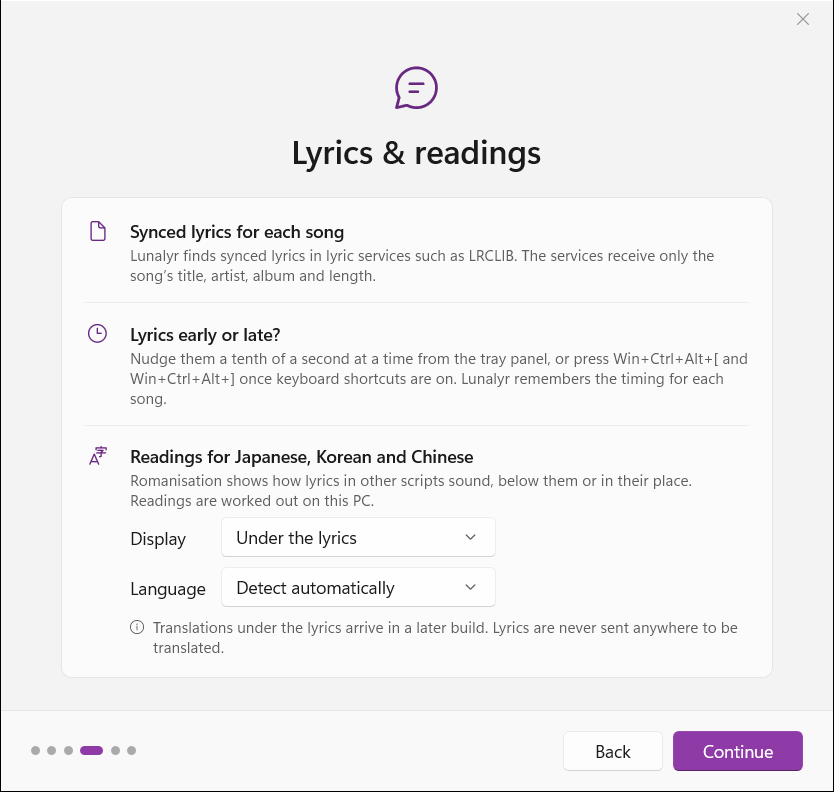
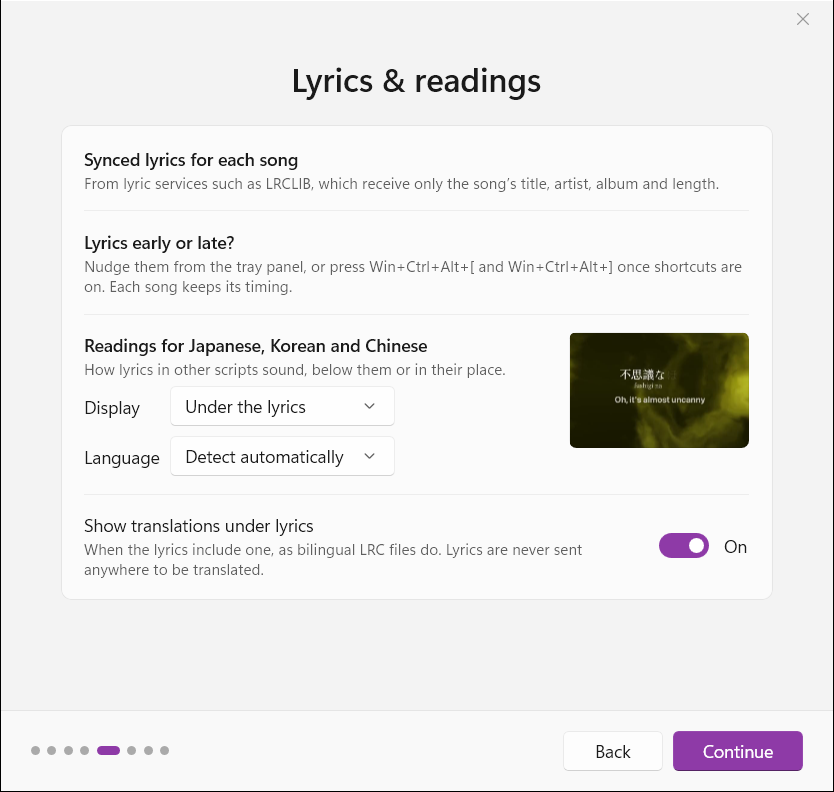
Docs and previews: the eight-step welcome, its media and the Settings loader
APP-SHELL.md: the reworked welcome (media, playback without a media session, the opening, the eight steps, the look
step's halves and layout tiles, the videos and extras steps, the capture pages), the Settings loader, and the
--onboarding-step pages and --settings-loader-capture rows; OnboardingHero.mp4's real album cover is marked for
re-recording before any release. PROVENANCE.md: what was blame-checked and how each part went. VALIDATION.md: rows
appended. Previews: every page in light and dark, the opening and the loader, all quiet captures. Captures now log
the video's state and position, and the opening is caught about 1.2 s in, with the glass formed.

diff --git a/windows/src/Lunalyr.App/Onboarding/OnboardingWindow.cs b/windows/src/Lunalyr.App/Onboarding/OnboardingWindow.cs
@@ -346,9 +346,9 @@ internal sealed partial class OnboardingWindow : Window
         {
             var waited = DateTime.UtcNow - started;
             // The look step's preview needs the wallpaper's controller and a few frames; the others only a layout pass.
-            // The opening is caught with the glass formed, a little over a second into its video (it ends on the plain logo).
+            // The opening is caught with the glass formed, under a second into its 3.25 s video (it ends on the plain logo).
             var ready = _introOverlay is not null
-                ? waited > TimeSpan.FromSeconds(1.7)
+                ? waited > TimeSpan.FromSeconds(1.2)
                 : _flow.Step == OnboardingStep.Look
                 ? (_host.Controller is not null && waited > TimeSpan.FromSeconds(4)) || waited > TimeSpan.FromSeconds(12)
                 : (_host.Controller is not null && waited > TimeSpan.FromSeconds(2)) || waited > TimeSpan.FromSeconds(10);
@@ -360,7 +360,7 @@ internal sealed partial class OnboardingWindow : Window
             {
                 var size = WindowCapture.WritePng(hwnd, path);
                 _host.Log.App.Info(size is { } s
-                    ? $"Welcome capture ({name}) written to {path} ({s.Width}×{s.Height}); foreground: {WindowCapture.IsForeground(hwnd)}."
+                    ? $"Welcome capture ({name}) written to {path} ({s.Width}×{s.Height}); foreground: {WindowCapture.IsForeground(hwnd)}{(_introVideo is { } video ? $"; the opening: {video.Describe()}" : "")}."
                     : $"Welcome capture ({name}) couldn't be drawn.");
             }
             catch (Exception ex) when (ex is IOException or UnauthorizedAccessException)

diff --git a/windows/src/Lunalyr.App/SettingsWindow.Loader.cs b/windows/src/Lunalyr.App/SettingsWindow.Loader.cs
@@ -139,7 +139,7 @@ public sealed partial class SettingsWindow
         {
             var size = WindowCapture.WritePng(hwnd, path);
             _host.Log.App.Info(size is { } s
-                ? $"Settings loader capture written to {path} ({s.Width}×{s.Height}); foreground: {WindowCapture.IsForeground(hwnd)}."
+                ? $"Settings loader capture written to {path} ({s.Width}×{s.Height}); foreground: {WindowCapture.IsForeground(hwnd)}; the logo: {_loaderVideo?.Describe()}."
                 : "Settings loader capture couldn't be drawn.");
         }
         catch (Exception ex) when (ex is IOException or UnauthorizedAccessException)

diff --git a/windows/src/Lunalyr.App/Onboarding/OnboardingMediaViews.cs b/windows/src/Lunalyr.App/Onboarding/OnboardingMediaViews.cs
@@ -66,6 +66,13 @@ internal sealed class MutedVideo : IDisposable
 
     public MediaPlayerElement Element { get; }
 
+    /// <summary>Where playback is, and its state (for the capture's log line).</summary>
+    public string Describe()
+    {
+        var session = _player.PlaybackSession;
+        return $"{session.PlaybackState} at {session.Position.TotalSeconds:0.00} s of {session.NaturalDuration.TotalSeconds:0.00} s";
+    }
+
     /// <summary>The video played to its end (off the UI thread; looping players never say so).</summary>
     public event Action? Ended;
 

diff --git a/windows/docs/APP-SHELL.md b/windows/docs/APP-SHELL.md
@@ -42,7 +42,8 @@ AOT, PerMonitorV2. The published folder is about 74 MB plus a 65 MB `Lunalyr.pdb
 | `--updated <version>` | The installer started this copy after an update: the action HUD says "Updated to Lunalyr <version>" once. |
 | `--hud-capture <file>` | Each action HUD note's bitmap is also written as a PNG (`file`, then `file-2`, `file-3`…), with the window's styles, display affinity and whether it is the foreground window in the log. For checks: the window itself is left out of screen captures. |
 | `--onboarding-capture <file>` | Opens the first-run welcome (as a first run sees it) unactivated at the bottom of the z-order, at `--onboarding-step`; once it has settled (2 s after start-up, 4 s on the look step for the live preview), writes it as a PNG with PrintWindow, logs whether it was ever the foreground window, and quits. Records nothing (`onboardingDone` is left alone). See "Onboarding". Not forwarded to a running instance. |
-| `--onboarding-step <name>` | The step `--onboarding-capture` shows: `welcome`, `music`, `look`, `lyrics`, `tray`, `done` (or its title, or 1–6). Default `welcome`. |
+| `--onboarding-step <name>` | The page `--onboarding-capture` shows: `welcome`, `music`, `look`, `videos`, `lyrics`, `extras`, `tray`, `done` (or its title, or 1–8), `look-lyrics` (the look step's Lyrics half) or `opening` (the glass logo opening). Default `welcome`. |
+| `--settings-loader-capture <file>` | Opens Settings quietly with its loader (the glass logo while the first page builds, which quiet windows otherwise skip, also with animation effects off), writes the window with the logo up as a PNG (PrintWindow) about 0.6 s in, logs the video's position and whether it was ever the foreground window, and quits. Implies `--settings` and `--quiet-windows`. Not forwarded to a running instance. |
 
 ## Demo mode (`--demo`)
 
@@ -666,17 +667,41 @@ theme. The window opens at Lyric style (or `--settings-page`).
   are theme resources set through styles (`App.xaml`), so the App theme, light, dark and high contrast all apply per
   element. The window adds no animations of its own; with Windows' "Animation effects" off, the entrance menu says
   every entrance plays as a simple fade, as the wallpaper and the preview do.
+- **The loader** (the Mac's `SettingsLoader`, Test Build 88; `SettingsWindow.Loader.cs`, rules in `OnboardingMedia`'s
+  `SettingsLoader`): the first Settings window of a launch opens on `WelcomeGlass.mp4` (muted, at 2×, the square video
+  1.6 times the window's shorter side, centred and clipped, on black, the caption buttons drawn light), builds its first
+  page behind it once the logo has been drawn, then fades it out over 0.25 s (ease in) `SettingsLoader.Remaining`
+  after opening: 0.75 s at most, never a wait of its own making (measured on this PC: the first page built in about
+  0.5 s behind it). A click removes it at once. Skipped with Windows' animation effects off, without the video, after
+  the first opening of the launch and in quiet windows (`--quiet-windows` checks), unless `--settings-loader-capture`
+  asks for it.
 - **App theme** (General): follow Windows, light or dark, for Lunalyr's windows only (`Root.RequestedTheme` and the
   title bar's caption buttons). `--theme` overrides it for one run.
 
-## Onboarding (milestone 8)
+## Onboarding (milestone 8; eight steps since the Mac's Test Build 88)
 
-The Mac's first-run welcome (`Sources/UI/Onboarding/`), adapted. The flow and its words are in
+The Mac's first-run welcome (`Sources/UI/Onboarding/`), adapted; reworked on 14 Nov 2026 to the Mac's Test Build 88
+(eight steps, a glass logo opening, real recordings). The flow, its words and the rules for its moving pictures are in
 `src/Lunalyr.Shell/Onboarding/` (`OnboardingFlow`, `OnboardingCopy`, `OnboardingGate`, `OnboardingNavigation`,
-`OnboardingPlayers`; tested without a window, `tests/Lunalyr.Shell.Tests/Onboarding/WelcomeTests.cs`); the window is
-`src/Lunalyr.App/Onboarding/` (`OnboardingWindow`, its steps, `OnboardingArt`, `WindowCapture`), shown by
-`App.Onboarding.cs` and `Hosting/AppHost.Onboarding.cs`. Previews: `docs/previews/onboarding/`
-(`onboarding-{step}-{light,dark}.png`).
+`OnboardingPlayers`, `OnboardingMedia`; tested without a window, `tests/Lunalyr.Shell.Tests/Onboarding/WelcomeTests.cs`
+and `OnboardingReworkTests.cs`); the window is `src/Lunalyr.App/Onboarding/` (`OnboardingWindow`, its steps and
+opening, `OnboardingArt`, `OnboardingMediaViews`, `LayoutThumbnails`, `WindowCapture`), shown by `App.Onboarding.cs`
+and `Hosting/AppHost.Onboarding.cs`. Previews: `docs/previews/onboarding/` (`onboarding-{page}-{light,dark}.png`, page
+being a step, `look-lyrics` or `opening`; `settings-loader-{light,dark}.png`).
+
+**Media** (`src/Lunalyr.App/Assets/Onboarding/`, copied to the app's folder): the owner's recordings
+`OnboardingHero.mp4`, `OnboardingReadings.mp4`, `OnboardingFloating.mp4` (960 × 620, H.264, no audio track, 8 s at
+most) with their first frames as `.jpg` posters, `WelcomeGlass.mp4` (the glass logo, 1080 × 1080, 3.25 s, no audio
+track), `DiscordStatus.gif` (a recording of a Discord member list) and `LunalyrIcon.png` (the 256 px frame of
+`Assets\Lunalyr.ico`), all byte for byte the Mac's. **Before any release: `OnboardingHero.mp4` shows a real album
+cover (OneRepublic, "Native"); the owner said keep it for now and re-record it before shipping.**
+
+**Playback:** each video is a `MediaPlayer` shown by a `MediaPlayerElement` (`MutedVideo`), muted with its volume at 0
+before a source is set, with its command manager and transport controls off, so it never becomes a media session in
+Windows' media controls (checked: the GSMTC session list doesn't change while one plays). A player exists only while it
+may play and is disposed when it may not: the recordings loop only while their step is on screen in the active window,
+with Windows' animation effects on, outside quiet windows and captures (`OnboardingClips.Plays`); otherwise the
+poster shows. A recording fills its box around its focus (`OnboardingClips.Frame`: the readings one zoomed 1.6×).
 
 ### When it shows
 
@@ -684,7 +709,7 @@ The Mac's first-run welcome (`Sources/UI/Onboarding/`), adapted. The flow and it
   folder at launch, and nothing went wrong reading them (`OnboardingGate.IsFirstRun`). Someone upgrading from a test
   build has a `settings.json`, so they never see it unasked; a damaged or unreadable file counts as an existing user too.
 - **Never** with `--demo`, a capture flag (`--onboarding-capture`, `--floating-capture`, `--ticker-capture`,
-  `--hud-capture`), `--stats`, `--seconds`, `--settings`, `--settings-page` or `--lyric-card`: a check, or a launch that
+  `--hud-capture`, `--settings-loader-capture`), `--stats`, `--seconds`, `--settings`, `--settings-page` or `--lyric-card`: a check, or a launch that
   asked for another window. `--quiet-windows`, `--no-playback`, `--data` and links don't stop it; with
   `--quiet-windows` it opens unactivated at the bottom of the z-order like every other window. Nor does a launch-at-login
   start (`--login`): Windows started Lunalyr at sign-in, quietly.
@@ -707,31 +732,42 @@ anything had written `settings.json` meanwhile, so it is one rule instead. `onbo
 
 A fixed-size Mica window, 680 × 640 DIPs (the Mac's is 640 × 540 points), centred on the main display's work area,
 with a see-through title bar and only a close button; in the taskbar and Alt+Tab while it is up, titled "Welcome to
-Lunalyr". The step sits centred above a footer with the step dots, Back, and Continue (Done and Open Settings on the
-last step of a first run). Light, dark and high contrast come from theme resources in `App.xaml`'s styles; the App
+Lunalyr". A step's title sits at the same height on every step with its line under it and its content below (the
+welcome and the end are centred), above a footer with the step dots, Back, and Continue (Done and Open Settings on the
+last step of a first run). No symbols over the titles but the end's check mark, as on the Mac. Light, dark and high contrast come from theme resources in `App.xaml`'s styles; the App
 theme setting and `--theme` apply as in Settings.
 
+- **The opening:** the first time the welcome opens in a launch, on its first step, a black overlay covers the whole
+  window with `WelcomeGlass.mp4` playing muted in the middle, sized so the logo's glass tile is half the window's
+  height (`WelcomeGlass.VideoSide`); the footer is hidden and does nothing, and the close button is drawn light. When
+  the video ends its last frame holds 0.35 s, then the overlay cross-fades (0.6 s) into the welcome; a click, Enter or
+  Space skips it (the same fade), and it gives up after 8 s whatever the player says. Never under animation effects off
+  (`WelcomeGlass.OpensOnIntro`), in a quiet window, Back to the first step, or the welcome shown again in the same
+  launch.
 - **Keys:** Enter presses the primary button (Continue, Open Settings, Done) unless the focused control takes Enter
   itself (a focused button presses itself); Alt+Left is Back; Esc closes it early. On each step the primary button
   gets the keyboard focus, but only while the window is active, so a quiet window never takes it.
-- **Narrator:** each step's title is a level-1 heading; a new step is announced ("Step 2 of 6, Your music") with a UI
+- **Narrator:** each step's title is a level-1 heading; a new step is announced ("Step 2 of 8, Your music") with a UI
   Automation notification, as VoiceOver moves to the Mac's new title, and the title's help text is its position; the
-  dots' panel is named "Step 2 of 6" with the step's name as help text (whether a panel surfaces that to Narrator was
+  dots' panel is named "Step 2 of 8" with the step's name as help text (whether a panel surfaces that to Narrator was
   not checked); every control is named after its row, with its caption as help text; the pictures are skipped.
   A held Enter doesn't repeat through the steps: only a fresh press moves on.
-- **Animation effects:** steps slide in from the side they came from (an entrance transition) and the welcome's
-  sample lyric lights word by word twice, only while Windows' Animation effects are on (read each time, never changed);
-  otherwise a step just appears and the lyric holds mid-line, as it does in a quiet window and in captures.
+- **Animation effects:** steps slide in from the side they came from (an entrance transition), the opening plays, the
+  recordings and the Discord recording move and the chosen layout tile plays its line, only while Windows' Animation
+  effects are on (read each time, never changed); otherwise a step just appears and the pictures hold still, as they do
+  in a quiet window and in captures.
 
 ### The steps
 
 | Step | What it shows and does |
 |---|---|
-| Welcome | A drawn desktop in an album's colours with two sample lines lit word by word, "Welcome to Lunalyr" and the Mac's sentence. (The Mac's Calm/Bold settings look has no Windows counterpart and isn't offered.) |
-| Your music | Windows' counterpart of the Mac's permission step: Lunalyr follows any app that shares what it plays with Windows (the media controls by the volume flyout), **Windows asks nothing and Lunalyr needs no permission**, and it only reads the song and its position. "Sharing with Windows now" lists the players GSMTC has sessions for, each Playing/Paused, the one followed marked (`OnboardingPlayers`, read only, never a command). Follow is Settings › Music players' Player, the same setting (`player`, `PlayerChoiceCombo`): Automatic, Apple Music, Spotify, each player sharing now and the current choice; with one player chosen the others are listed as "Not followed: Lunalyr follows … only" and what they play isn't read. Continue asks nothing of anyone. |
-| Pick a look | The Mac's look step: the live preview (Settings' `SettingsPreview`, 320 wide, drawn only on this step and while the window is visible), every wallpaper type as a tile (`backgroundMode`; Settings' own tile grid, so Image or video with nothing imported opens the file picker and imports), the Layout menu (`lyricComposition`, Match the music first) and a line on what the type draws (or the import's progress or failure). The wallpaper follows at once. |
-| Lyrics & readings | Where lyrics come from (lyric services such as LRCLIB, sent only the song's title, artist, album and length; Windows has no Apple Music lyrics of its own), nudging the timing from the tray panel or with the two shortcuts (labelled as this keyboard types them, e.g. Win+Ctrl+Alt+[), readings Display and Language (`romanizationDisplay`, `romanizationLanguage`), and the Mac's "Show translations under lyrics" checkbox (`showTranslations`) with its caption: translations that come with the lyrics, never sent anywhere to be translated. |
-| The tray | The Mac's menu-bar step: a picture of the taskbar's corner (the overflow ^, Lunalyr's icon lit, the clock, and the tray lyric strip while it is on); Lunalyr lives in the notification area with no taskbar button once Settings is closed, may be under ^ and can be dragged onto the taskbar to stay pinned, and opening it again brings back Settings. Switches: Lyric by the tray (`trayLyric`) and Launch at login. |
+| Welcome | The hero recording (the desktop with Lunalyr's lyrics, 392 wide) with Lunalyr's icon resting on its lower edge, "Welcome to Lunalyr" and the Mac's sentence ("Your desktop sings along: …"). |
+| Your music | Windows' counterpart of the Mac's permission step: Lunalyr follows any app that shares what it plays with Windows (the media controls by the volume flyout), **Windows asks nothing and Lunalyr needs no permission**, and it only reads the song and its position (that last sentence under the card, as the Mac's `permissionDetail`). "Sharing with Windows now" lists the players GSMTC has sessions for, each Playing/Paused, the one followed marked (`OnboardingPlayers`, read only, never a command). Follow is Settings › Music players' Player, the same setting (`player`, `PlayerChoiceCombo`): Automatic, Apple Music, Spotify, each player sharing now and the current choice; with one player chosen the others are listed as "Not followed: Lunalyr follows … only" and what they play isn't read. Continue asks nothing of anyone. |
+| Pick a look | The Mac's look step: the live preview (Settings' `SettingsPreview`, 280 wide, drawn only on this step and while the window is visible), then a `SelectorBar` (the Mac's segmented control) with two halves, kept in the flow so Back returns to the one showing (`OnboardingFlow.LookPart`). **Wallpaper:** every type as a tile (`backgroundMode`; Settings' own tile grid, so Image or video with nothing imported opens the file picker and imports) and a line on what the type draws (or the import's progress or failure). **Lyrics:** four layout tiles (Broadside, Portal, Mosaic, Cascade; the layout in use leads when it is another, `LayoutChoices.Shown`) drawn by the wallpaper's own composition layers with the sample line "Static on the radio, gold across the bay" (`LayoutThumbnails`: one 192 × 112 WARP surface laid out as a 210-line stage, released with the tiles); every tile holds the line just sung, and the chosen one plays it three times at 20 fps first; then what the chosen layout does ("Match the music picks a layout to suit each song." for Match the music) and "10 more in Settings, with Match the music." The wallpaper follows at once. |
+| Music videos | The Mac's line, with Windows' video file chosen for a song in place of the Music library's videos; "Play music videos as the wallpaper" (on: `backgroundMode` `musicVideo`, remembering the type it replaced; off: back to that type, `OnboardingCopy.WithVideoWallpaper`) and "Search YouTube for videos" (`musicVideoOnline`, off by default) with Settings' own caption on what YouTube receives. The Mac's two framing pictures and menus (YouTube and library videos: Fill the screen or Show the whole video) belong to "Show the whole video", another item of the port: they join this step once that setting is merged. Nothing here loads a video or a player. |
+| Lyrics & readings | Where lyrics come from (lyric services such as LRCLIB, sent only the song's title, artist, album and length; Windows has no Apple Music lyrics of its own), nudging the timing from the tray panel or with the two shortcuts (labelled as this keyboard types them, e.g. Win+Ctrl+Alt+[), readings Display and Language (`romanizationDisplay`, `romanizationLanguage`) beside the readings recording (144 × 93), and the Mac's "Show translations under lyrics" switch (`showTranslations`) with its caption: translations that come with the lyrics, never sent anywhere to be translated. |
+| Extras | Each with a picture (196 × 64), its name and line, and a switch: the desktop player drawn in miniature with "Show player on hover" (`showControlsOnHover`); the floating lyrics recording, with no switch ("Turn them on in Settings › Lyric style."); the Discord status recording (`DiscordStatus.gif` on Discord's dark list) with Discord status (`discordPresence`, off by default) and what it talks to: only the Discord app on this PC, covers from Apple's search, cleared when playback stops. |
+| The tray | The Mac's menu-bar step: its title and note, then a picture of the taskbar's corner (the overflow ^, Lunalyr's icon lit, the clock, and the tray lyric strip while it is on); Lunalyr lives in the notification area with no taskbar button once Settings is closed, may be under ^ and can be dragged onto the taskbar to stay pinned, and opening it again brings back Settings. Switches: Lyric by the tray (`trayLyric`) and Launch at login. |
 | Done | The Mac's words: "“Title” is playing, so its lyrics are on your desktop now." or "Play a song in any music app and its lyrics appear on your desktop."; the players again and "Wallpaper: …" with what it draws; "Settings has the rest…" (first run) or "You can change all of this in Settings." (again). |
 
 **Launch at login** is the same switch as Settings › General's (see "Startup, updates and packaging"). The window takes
@@ -745,6 +781,10 @@ Windows' entry now says, and an error shows under it (in `--demo`/`--data` runs:
 Lunalyr.exe --demo --data $env:TEMP\lunalyr-welcome --quiet-windows --seconds 30 --theme dark `
   --onboarding-capture $env:TEMP\welcome-look-dark.png --onboarding-step look
 ```
+
+`--onboarding-step` takes a step (name, title or 1–8), `look-lyrics` (the look step on its Lyrics half) or `opening`
+(the glass logo opening, played muted in the quiet window for the capture and caught about 1.2 s in, with the glass
+formed; the log gives the video's position). Captures show the recordings' posters.
 
 The data folder's `settings.json` needs `"wallpaperPaused": true` (else the demo draws over the desktop). The window
 opens unactivated at the bottom, is drawn with `PrintWindow(PW_RENDERFULLCONTENT)` into a bitmap, cropped to its

diff --git a/windows/docs/PROVENANCE.md b/windows/docs/PROVENANCE.md
@@ -255,3 +255,18 @@ Blame (`-w -M -C`) run on each Mac range read; nothing from an `a99fd65` line wa
 | `LyricLayerView.swift` 125–150, 672–682 (remembered colour and composition) | 0 | `AppController.StyleMemory.cs`, `StyleMemory.Applied` | Behaviour ported into the controller |
 | `LunalyrExtras.swift` 445–470 (`cycleLayout`) | 0 | `LunalyrExtras.CycleLayout`, `StyleMemory.CycledRemembered` | Faithful port |
 | `LyricExtrasInspector.swift` 1–260, `LyricStylePage.swift` 1–300 | 0, 1 (a SwiftUI environment line) | `LyricStylePage.cs`, `LyricStyleCopy.cs` | Rows rebuilt with `SettingsKit`, copy ported |
+
+## Onboarding rework and the Settings loader (Mac Test Build 88, 14 Nov 2026)
+
+Blame (`-w -M -C`, `transfer/windows-port-14nov`) run on every file read; nothing from an `a99fd65` line was translated.
+
+| Mac file | `a99fd65` lines | Windows | How |
+|---|---|---|---|
+| `Sources/UI/Onboarding/OnboardingFlow.swift` | 0 | `Shell/Onboarding/OnboardingFlow.cs`, `OnboardingCopy.cs` | Faithful port, in Windows' terms |
+| `OnboardingSteps.swift`, `OnboardingView.swift`, `OnboardingClip.swift`, `OnboardingIllustrations.swift` | 1, 3, 1, 1: each a SwiftUI `@Environment(\.accessibilityReduceMotion)` declaration | `App/Onboarding/OnboardingWindow*.cs`, `OnboardingMediaViews.cs`, `OnboardingArt.cs`, `Shell/Onboarding/OnboardingMedia.cs` | Rebuilt in WinUI; reduce motion is Windows' own Animation effects setting, read afresh |
+| `WelcomeGlassIntro.swift`, `OnboardingLayoutChoices.swift`, `OnboardingPictures.swift`, `DiscordStatusPicture.swift` | 0 | `OnboardingWindow.Opening.cs`, `LayoutThumbnails.cs`, `OnboardingArt.cs`, `OnboardingMedia.cs` | Faithful port of the rules and sizes; the views rebuilt in WinUI (the layout tiles drawn by Windows' own composition layers) |
+| `OnboardingWindow.swift` | 9 (NSWindow plumbing) | — | Not read for this rework; the Windows window's showing and closing are its own (milestone 8) |
+| `Sources/Settings/SettingsLoader.swift` | 0 | `Shell/Onboarding/OnboardingMedia.cs` (`SettingsLoader`), `App/SettingsWindow.Loader.cs` | Faithful port |
+| `Sources/Settings/SettingsWindow.swift` (the loader's use) | 9 in the lines around it (window creation, delegate, `makeKeyAndOrderFront`, activation) | `SettingsWindow.xaml.cs` (three lines), `SettingsWindow.Loader.cs` | **Re-implemented from behaviour**: open on the logo, build behind it, fade after `remaining(after:)` |
+| `WelcomeTests.swift`, `WelcomeGlassTests.swift`, `SettingsLoaderTests.swift` | 0 in the tests ported | `WelcomeTests.cs`, `OnboardingReworkTests.cs` | Ported tests keep the Mac's inputs |
+| `Sources/Resources/Onboarding/*`, `WelcomeGlass.mp4`, `DiscordStatus.gif` | — (media) | `App/Assets/Onboarding/` | The owner's own recordings, copied byte for byte; none is a Verso asset. `WelcomeGlass.mp4` was made with ReactDrops' Liquid Glass Logo from Lunalyr's own logo |

diff --git a/windows/VALIDATION.md b/windows/VALIDATION.md
@@ -212,3 +212,10 @@ order sources answer in. Four full runs in a row were green afterwards. See M3.m
 | Lyric cards follow the text colour (mode, strength, custom colours) | PC (offscreen, `LyricCardPreview -colour`) | `docs/previews/lyric-style-extras/card-{albumDrift,sungSweep}.png` |
 | Remembered style on lyric cards | not ported | — |
 | Performance › On battery (`onBattery`: Everything stays on / Lighter effects only, the default / Line patterns instead / Album colours only), Windows' own wording | unit (`PowerSavingShellTests.OnBatteryReachesTheRendererAndDefaultsToLighterEffects`); a real unplug needs the owner | — |
+| Welcome reworked to eight steps (Mac Test Build 88): flow and look halves, copy, the opening's, recordings' and loader's rules, layout choices and the sample line, `--onboarding-step` pages, `--settings-loader-capture` | unit (WelcomeTests updated; 11 Mac tests ported in `OnboardingReworkTests`, 4 of Windows' own) | `tests/Lunalyr.Shell.Tests/Onboarding/` |
+| The welcome's media are the Mac's byte for byte, silent (no `soun` track), short, small; the glass logo square | unit (MP4 boxes read, nothing played) and `git hash-object` against `C:\dev\lunalyr-mac-88` | `OnboardingReworkTests.TheRecordingsAreBundledSilentAndSmall`, `TheBundledVideoIsSilentSquareAndShort` |
+| Every welcome page in light and dark, never foreground; posters in captures | PC (`--onboarding-capture` with `--demo --quiet-windows`, Release AOT; log says foreground: False) | `docs/previews/onboarding/onboarding-{welcome,music,look,look-lyrics,videos,lyrics,extras,tray,done}-{light,dark}.png` |
+| The glass logo opening plays muted in the window (caught about 1.2 s into the 3.25 s video) | PC (`--onboarding-step opening`; log gives the player's state and position) | `docs/previews/onboarding/onboarding-opening-{light,dark}.png` |
+| A playing MediaPlayer adds no media session (GSMTC) | PC (`tools/NowPlayingProbe --hide-titles` before and during the opening: the same three sessions) | — |
+| The Settings loader: logo up while the first page builds (about 0.5 s here), quiet capture | PC (`--settings-loader-capture`, Release AOT) | `docs/previews/onboarding/settings-loader-{light,dark}.png` |
+| The opening's skip (click, Enter), its fade into the welcome, the recordings playing in the active window and stopping when it goes inactive, the chosen layout tile playing, the loader's fade, all with real animation effects and a real first run | needs the owner (an activated window: agents never take the foreground) | — |
